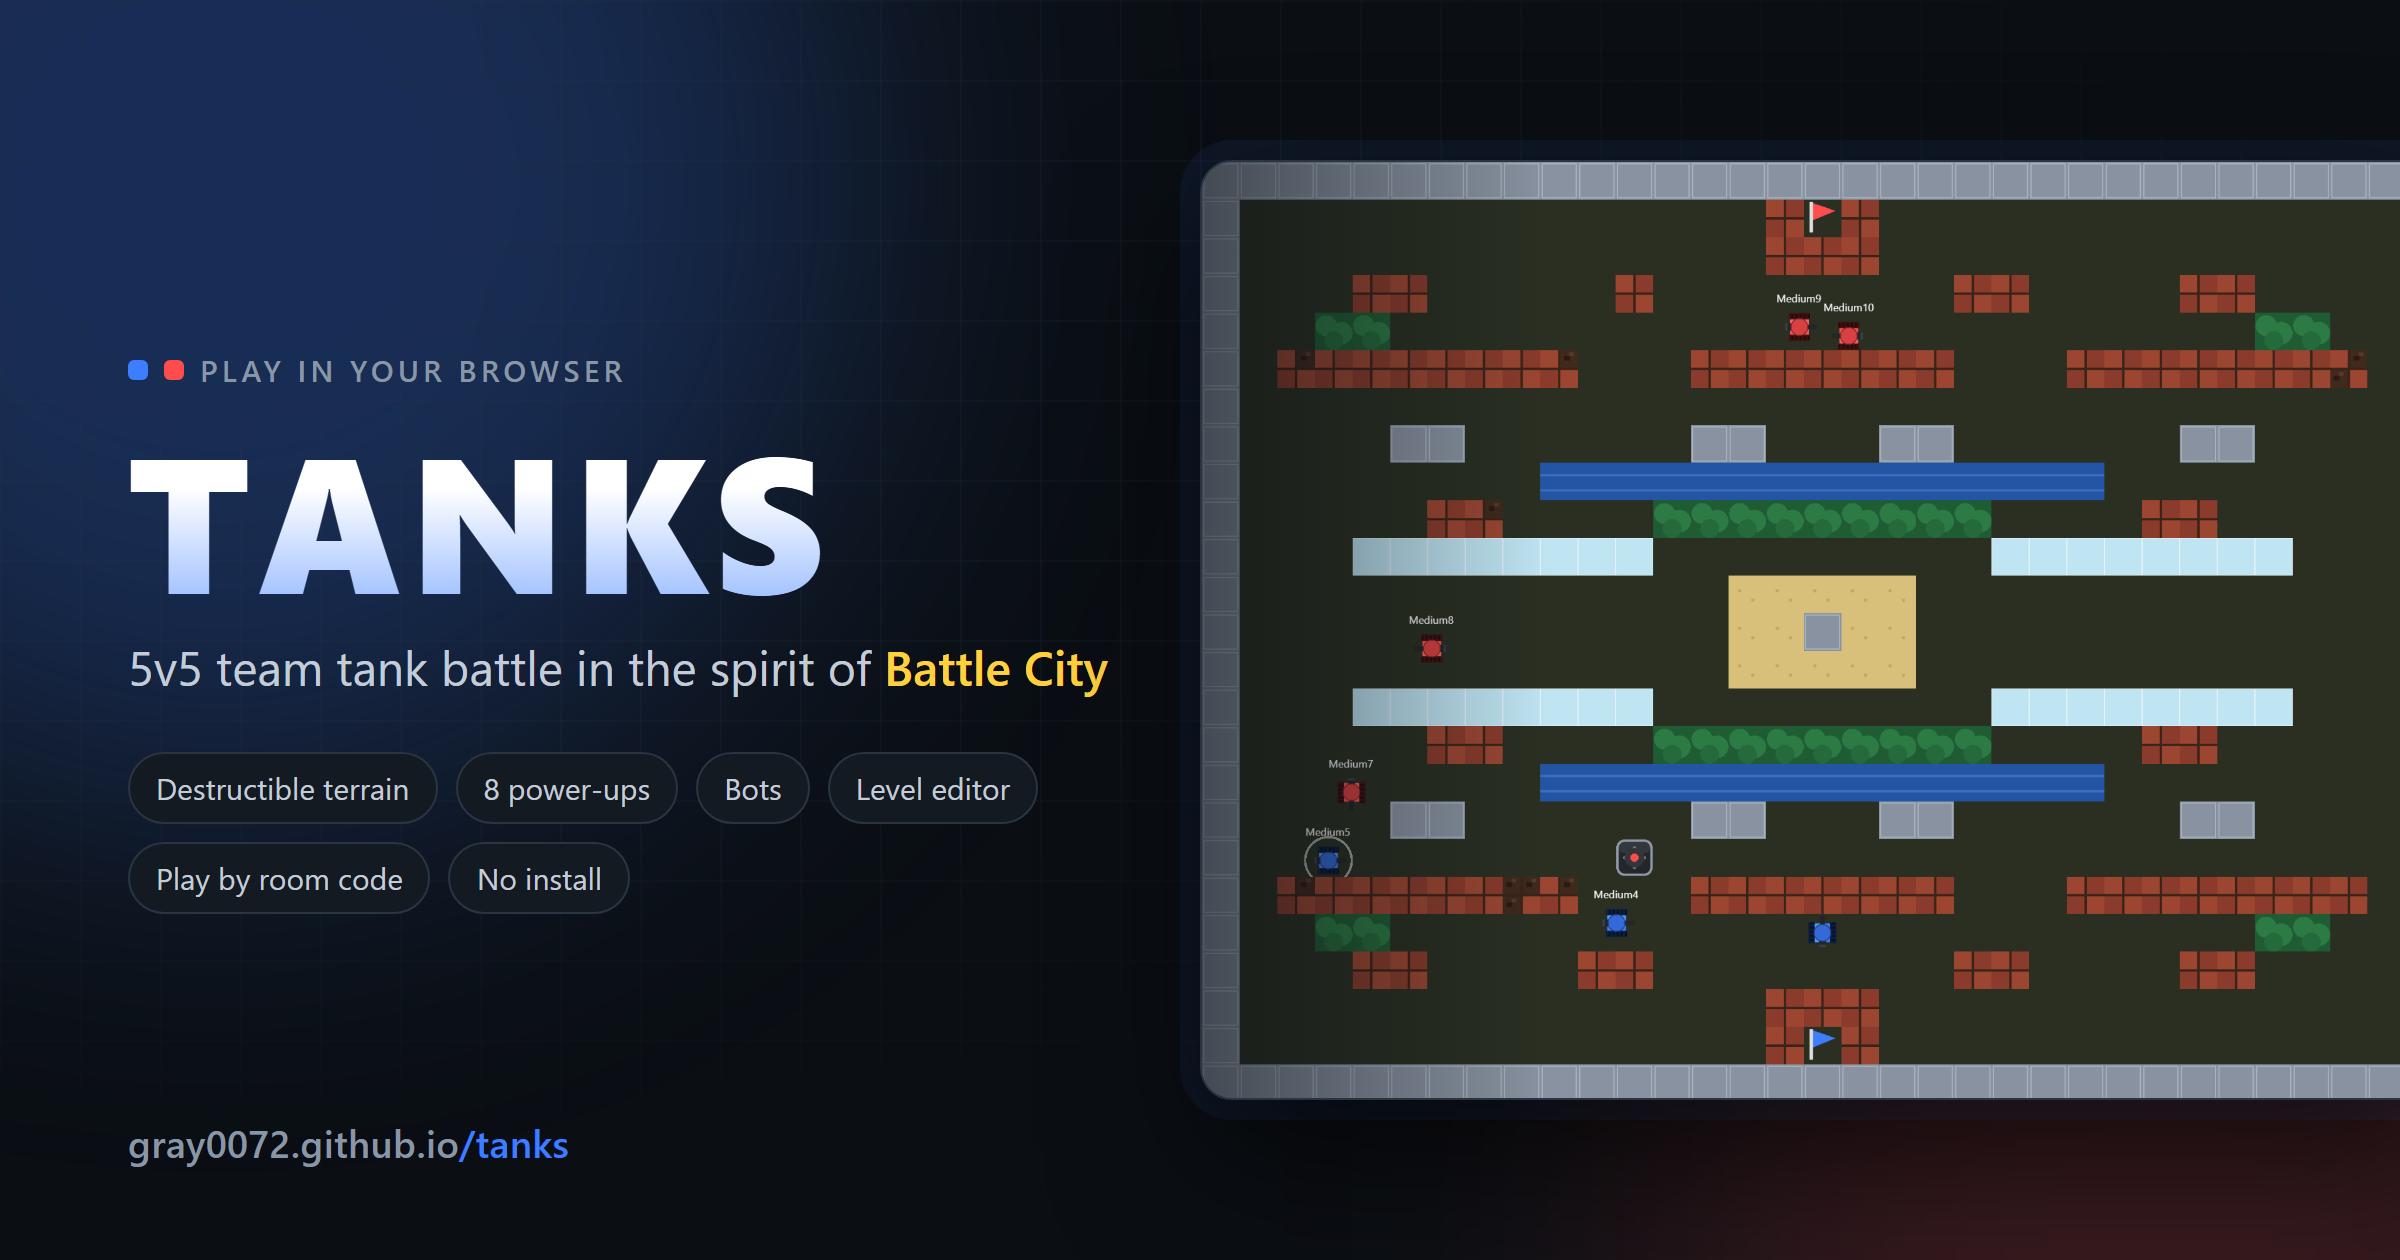
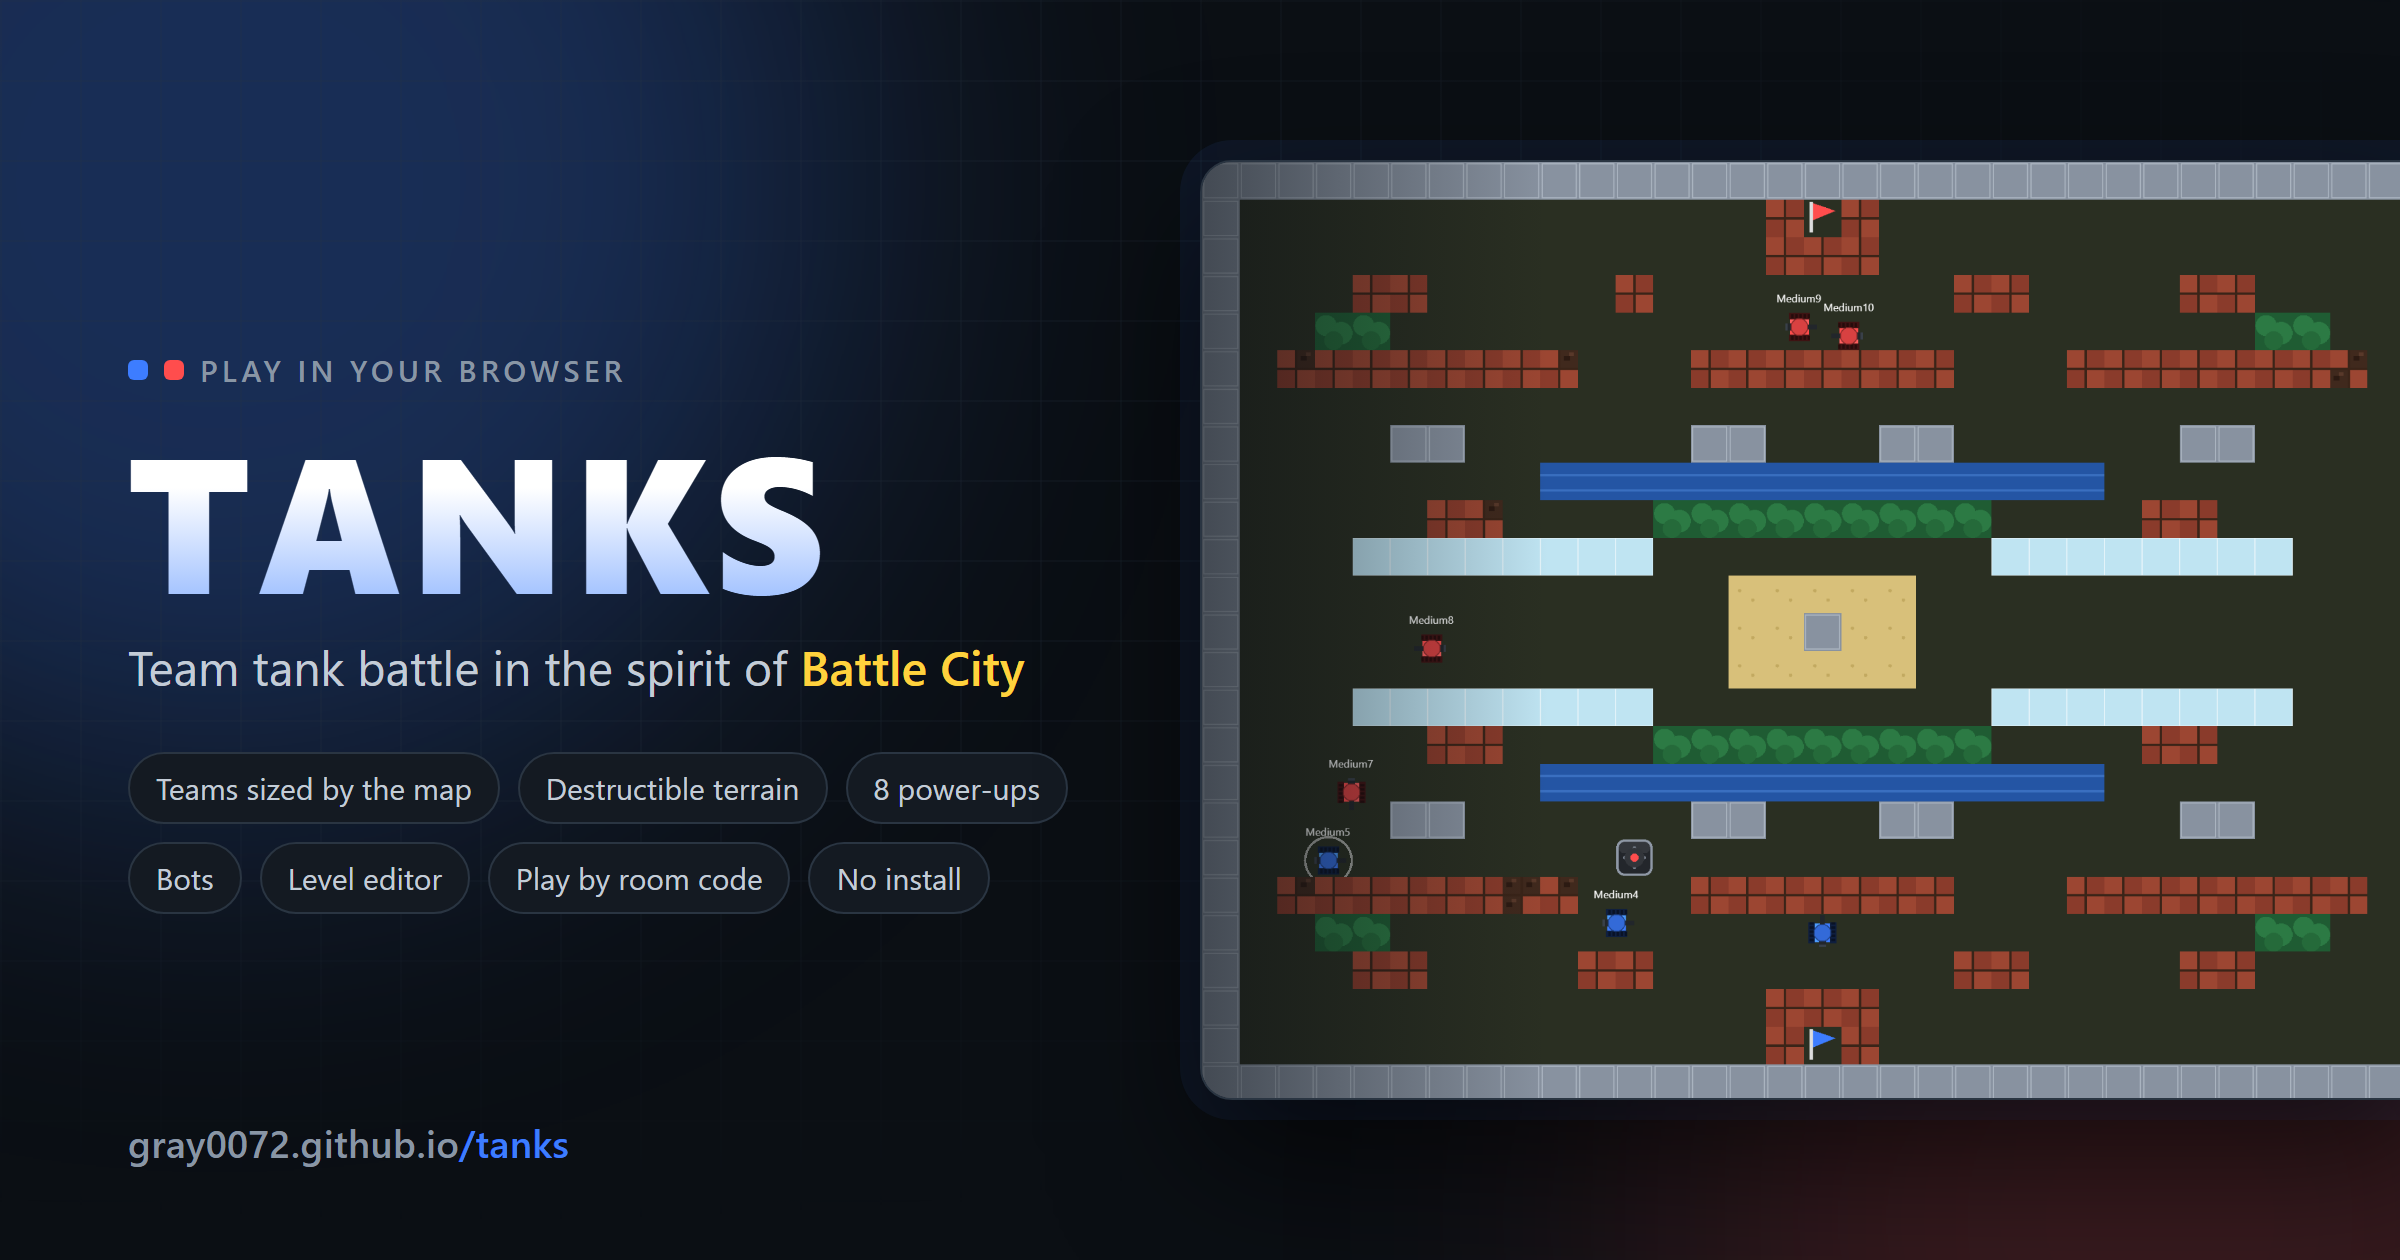
Drop the fixed 5v5 claim: team size comes from the map

Changed region(s): [[0.0625, 0.619, 0.4375, 0.7119], [0.0625, 0.4952, 0.4688, 0.5571], [0.3438, 0.681, 0.4062, 0.7119]]

diff --git a/index.html b/index.html
@@ -5,14 +5,14 @@
     <meta name="viewport" content="width=device-width, initial-scale=1.0, viewport-fit=cover, user-scalable=no" />
     <link rel="icon" type="image/svg+xml" href="./favicon.svg" />
     <meta name="theme-color" content="#0d1117" />
-    <title>Tanks — 5v5 browser tank battle</title>
+    <title>Tanks — browser team tank battle</title>
     <meta
       name="description"
-      content="A browser 5v5 team tank battle in the spirit of Battle City: destructible terrain, power-ups, bots, a level editor, and peer-to-peer play by room code."
+      content="A browser team tank battle in the spirit of Battle City: destructible terrain, power-ups, bots, a level editor, and peer-to-peer play by room code. Teams are as big as the map says."
     />
     <!-- Link previews (the Pages URL is what people share; og:image must be absolute). -->
     <meta property="og:type" content="website" />
-    <meta property="og:title" content="Tanks — 5v5 browser tank battle" />
+    <meta property="og:title" content="Tanks — browser team tank battle" />
     <meta
       property="og:description"
       content="Battle City–style team battle in the browser: destructible terrain, power-ups, bots, a level editor, and peer-to-peer play by room code."

diff --git a/README.md b/README.md
@@ -2,7 +2,7 @@
 
 # 🛡 TANKS
 
-**A browser 5v5 team tank battle in the spirit of _Battle City_ — destructible terrain, power-ups,
+**A browser team tank battle in the spirit of _Battle City_ — destructible terrain, power-ups,
 and a flag you have to defend.**
 
 [![Play now](https://img.shields.io/badge/▶_Play_now-gray0072.github.io%2Ftanks-2f6fed?style=for-the-badge)](https://gray0072.github.io/tanks/)
@@ -14,18 +14,18 @@ and a flag you have to defend.**
 ![No backend](https://img.shields.io/badge/backend-none-2ea043)
 ![License](https://img.shields.io/badge/license-MIT-lightgrey)
 
-<img src="docs/screenshots/match.png" alt="A 5v5 match on the Classic map" width="860">
+<img src="docs/screenshots/match.png" alt="A team match on the Classic map" width="860">
 
 </div>
 
 ---
 
-Blue against red, five a side, one arena. Bring friends over a 6-character room code, hand a second
-player the arrow keys on your own machine, or take on a team of bots — every slot nobody claims is
-filled by one. Runs in any modern browser, desktop or phone, with no server, no install and no
-account.
+Blue against red, as many tanks a side as the map puts spawn points. Bring friends over a
+6-character room code, hand a second player the arrow keys on your own machine, or take on a team of
+bots — every slot nobody claims is filled by one. Runs in any modern browser, desktop or phone,
+with no server, no install and no account.
 
-> **Status: playable prototype.** A full local match works today: menu → room → live 5v5 with
+> **Status: playable prototype.** A full local match works today: menu → room → a live match with
 > terrain, bonuses, flags and bots, plus a level editor and a headless test suite (`npm test`).
 > Multiplayer (PeerJS) is implemented but not yet verified across two real devices over the
 > internet; the touch controls are verified in an emulated phone browser, not yet on real hardware.
@@ -36,6 +36,7 @@ account.
 
 |  |  |
 |---|---|
+| 🧩 **Teams sized by the map** | The roster is the map's spawn count, not a fixed number — a 1v1 test arena and a 16-a-side brawl are the same engine, and every free slot is filled by a bot |
 | ⚔ **Team battle with an objective** | Destroy the enemy flag for an instant win, or grind the enemy out of respawns before the 10-minute clock runs out |
 | 🤖 **Bots on every free slot** | Easy / Medium / Hard, set per bot or for the whole roster — genuinely different tactics, not just better aim |
 | 🧱 **Destructible terrain** | Brick crumbles cell by cell, steel resists until you're upgraded, forest conceals, water stops tanks but not bullets, ice slides, sand slows |

diff --git a/AGENTS.md b/AGENTS.md
@@ -19,8 +19,8 @@ deltas, simplified client-side interpolation instead of full prediction/reconcil
 before assuming the spec's prose is what's actually running.
 
 **Status as of 2026-09-06:** rewrote the whole thing from an earlier 2–4 player Canvas2D prototype to
-the current 5v5/PixiJS/team design; verified working end-to-end (menu → create room → claim slot →
-set bot difficulty → local co-op seat → ready → start → live 5v5 match with bots, terrain, bonuses,
+the current PixiJS/team design; verified working end-to-end (menu → create room → claim slot →
+set bot difficulty → local co-op seat → ready → start → live team match with bots, terrain, bonuses,
 kills, HUD). Followed by a bug-fixing pass: tank hitbox shrunk below its 32px slot + auto-center
 assist (tanks were snagging in same-width corridors), tank sprite redrawn with tracks + barrel,
 wall-hit/destruction VFX added, ally-vs-enemy forest concealment, bot stuck-detection with randomized

diff --git a/CLAUDE.md b/CLAUDE.md
@@ -1,6 +1,6 @@
 # Tanks
 
-Browser 5v5 team tank battle (Battle City–style). See `SPEC.md` — the index over the section files
+Browser team tank battle (Battle City–style); team size comes from the loaded map. See `SPEC.md` — the index over the section files
 in `specs/` — for the design (authoritative, kept in sync with the code) and `README.md` for the
 player-facing overview.
 
